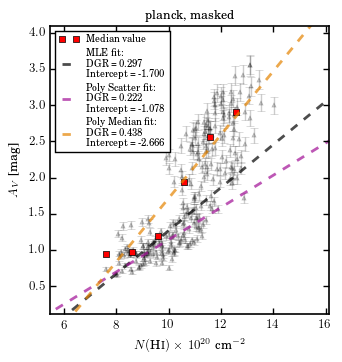
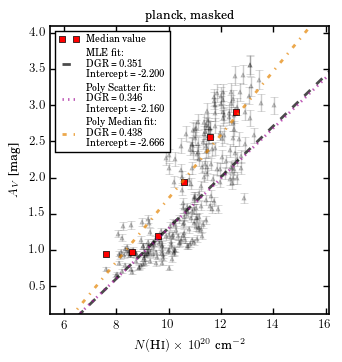
new post

diff --git a/images/2015-08-17/image_copy.py b/images/2015-08-17/image_copy.py
@@ -11,6 +11,7 @@ images = [
 '/d/bip3/ezbc/perseus/figures/diagnostics/perseus_planck_binned_coarseres_fixedwidth_av_vs_nhi*png',
 '/d/bip3/ezbc/taurus/figures/diagnostics/taurus_planck_binned_coarseres_fixedwidth_av_vs_nhi*png',
 '/d/bip3/ezbc/california/figures/diagnostics/california_planck_binned_coarseres_fixedwidth_av_vs_nhi*png',
+'/d/bip3/ezbc/california/figures/diagnostics/california_planck_binned_coarseres_fixedwidth_compsub_av_vs_nhi*png',
 
 # int, planck
 '/d/bip3/ezbc/perseus/figures/likelihood/perseus_planck_binned_coarseres_likelihood_w?.png',

diff --git a/_posts/2015-08-17-research-project-outline.md b/_posts/2015-08-17-research-project-outline.md
@@ -206,5 +206,63 @@ in the region. For California this would could mean selecting -20 to 15 km/s.
 More updates to come.
 
 
+## Background HI
+
+For California we see that an enormous DGR and negative intercept are favored.
+This means two things, first that there is a lot of dust along the line of
+sight, likely much of it unassociated with California, second, the N(HI)
+created using a narrow HI width does not correlate well with the dust, hence
+the large negative intercept.
+
+To account for this background we can try two things, fit a seperate DGR with
+the unassociated HI, or remove an HI background.
+
+### Removing an HI background
+
+I ran the experiement of subtracting the fitted components in the California
+median spectrum from Figure 5 from the HI cube. I excluded the fitted component
+used to calculate the HI width, as this is our presumed cloud of interest. I
+subtracted these components from every line of sight.
+
+***
+
+<img
+src="/images/2015-08-17/california_planck_binned_coarseres_fixedwidth_compsub_av_vs_nhi_masked.png"
+    style="width: 70%"/>
+<img
+src="/images/2015-08-17/california_planck_binned_coarseres_fixedwidth_compsub_av_vs_nhi.png"
+    style="float: left; width: 50%"/>
+<img
+src="/images/2015-08-17/california_planck_binned_coarseres_fixedwidth_av_vs_nhi.png"
+    style="width: 50%"/>
+
+#### Figure 7
+
+Same as Figure 6, except with an HI background subtraction. For ease of
+comparison the bottom panel of Figure 6 is shown at the bottom right. The
+component subtraction changed the fitted intercept by 1 mag, however did not
+change much of the structure in the N(HI) / $$A_V$$ distribution.
+
+***
+
+### Fitting for a seperate component along the line of sight
+
+We could also fit for multiple clouds along the line of sight as done in
+[Martin et al. (2015)](http://arxiv.org/pdf/1504.07723v2.pdf) and [Planck
+(2011)](http://www.aanda.org/articles/aa/full_html/2011/12/aa16485-11/aa16485-11.html#S2).
+This would allow us to associate the excess of dust emission with HI not
+associated with California. This could help resolve the high DGR issue.
+
+Our model $$A_V$$ would be represented as
+
+$$
+\begin{equation}
+    A_{V,{\rm model}} = DGR_B \times N(HI)_B + DGR_C \times N(HI)_C + A_{V,B}
+\end{equation}
+$$
+
+where a B subscript represents the background, and the C subscript represents
+the cloud. 
+
 
 
